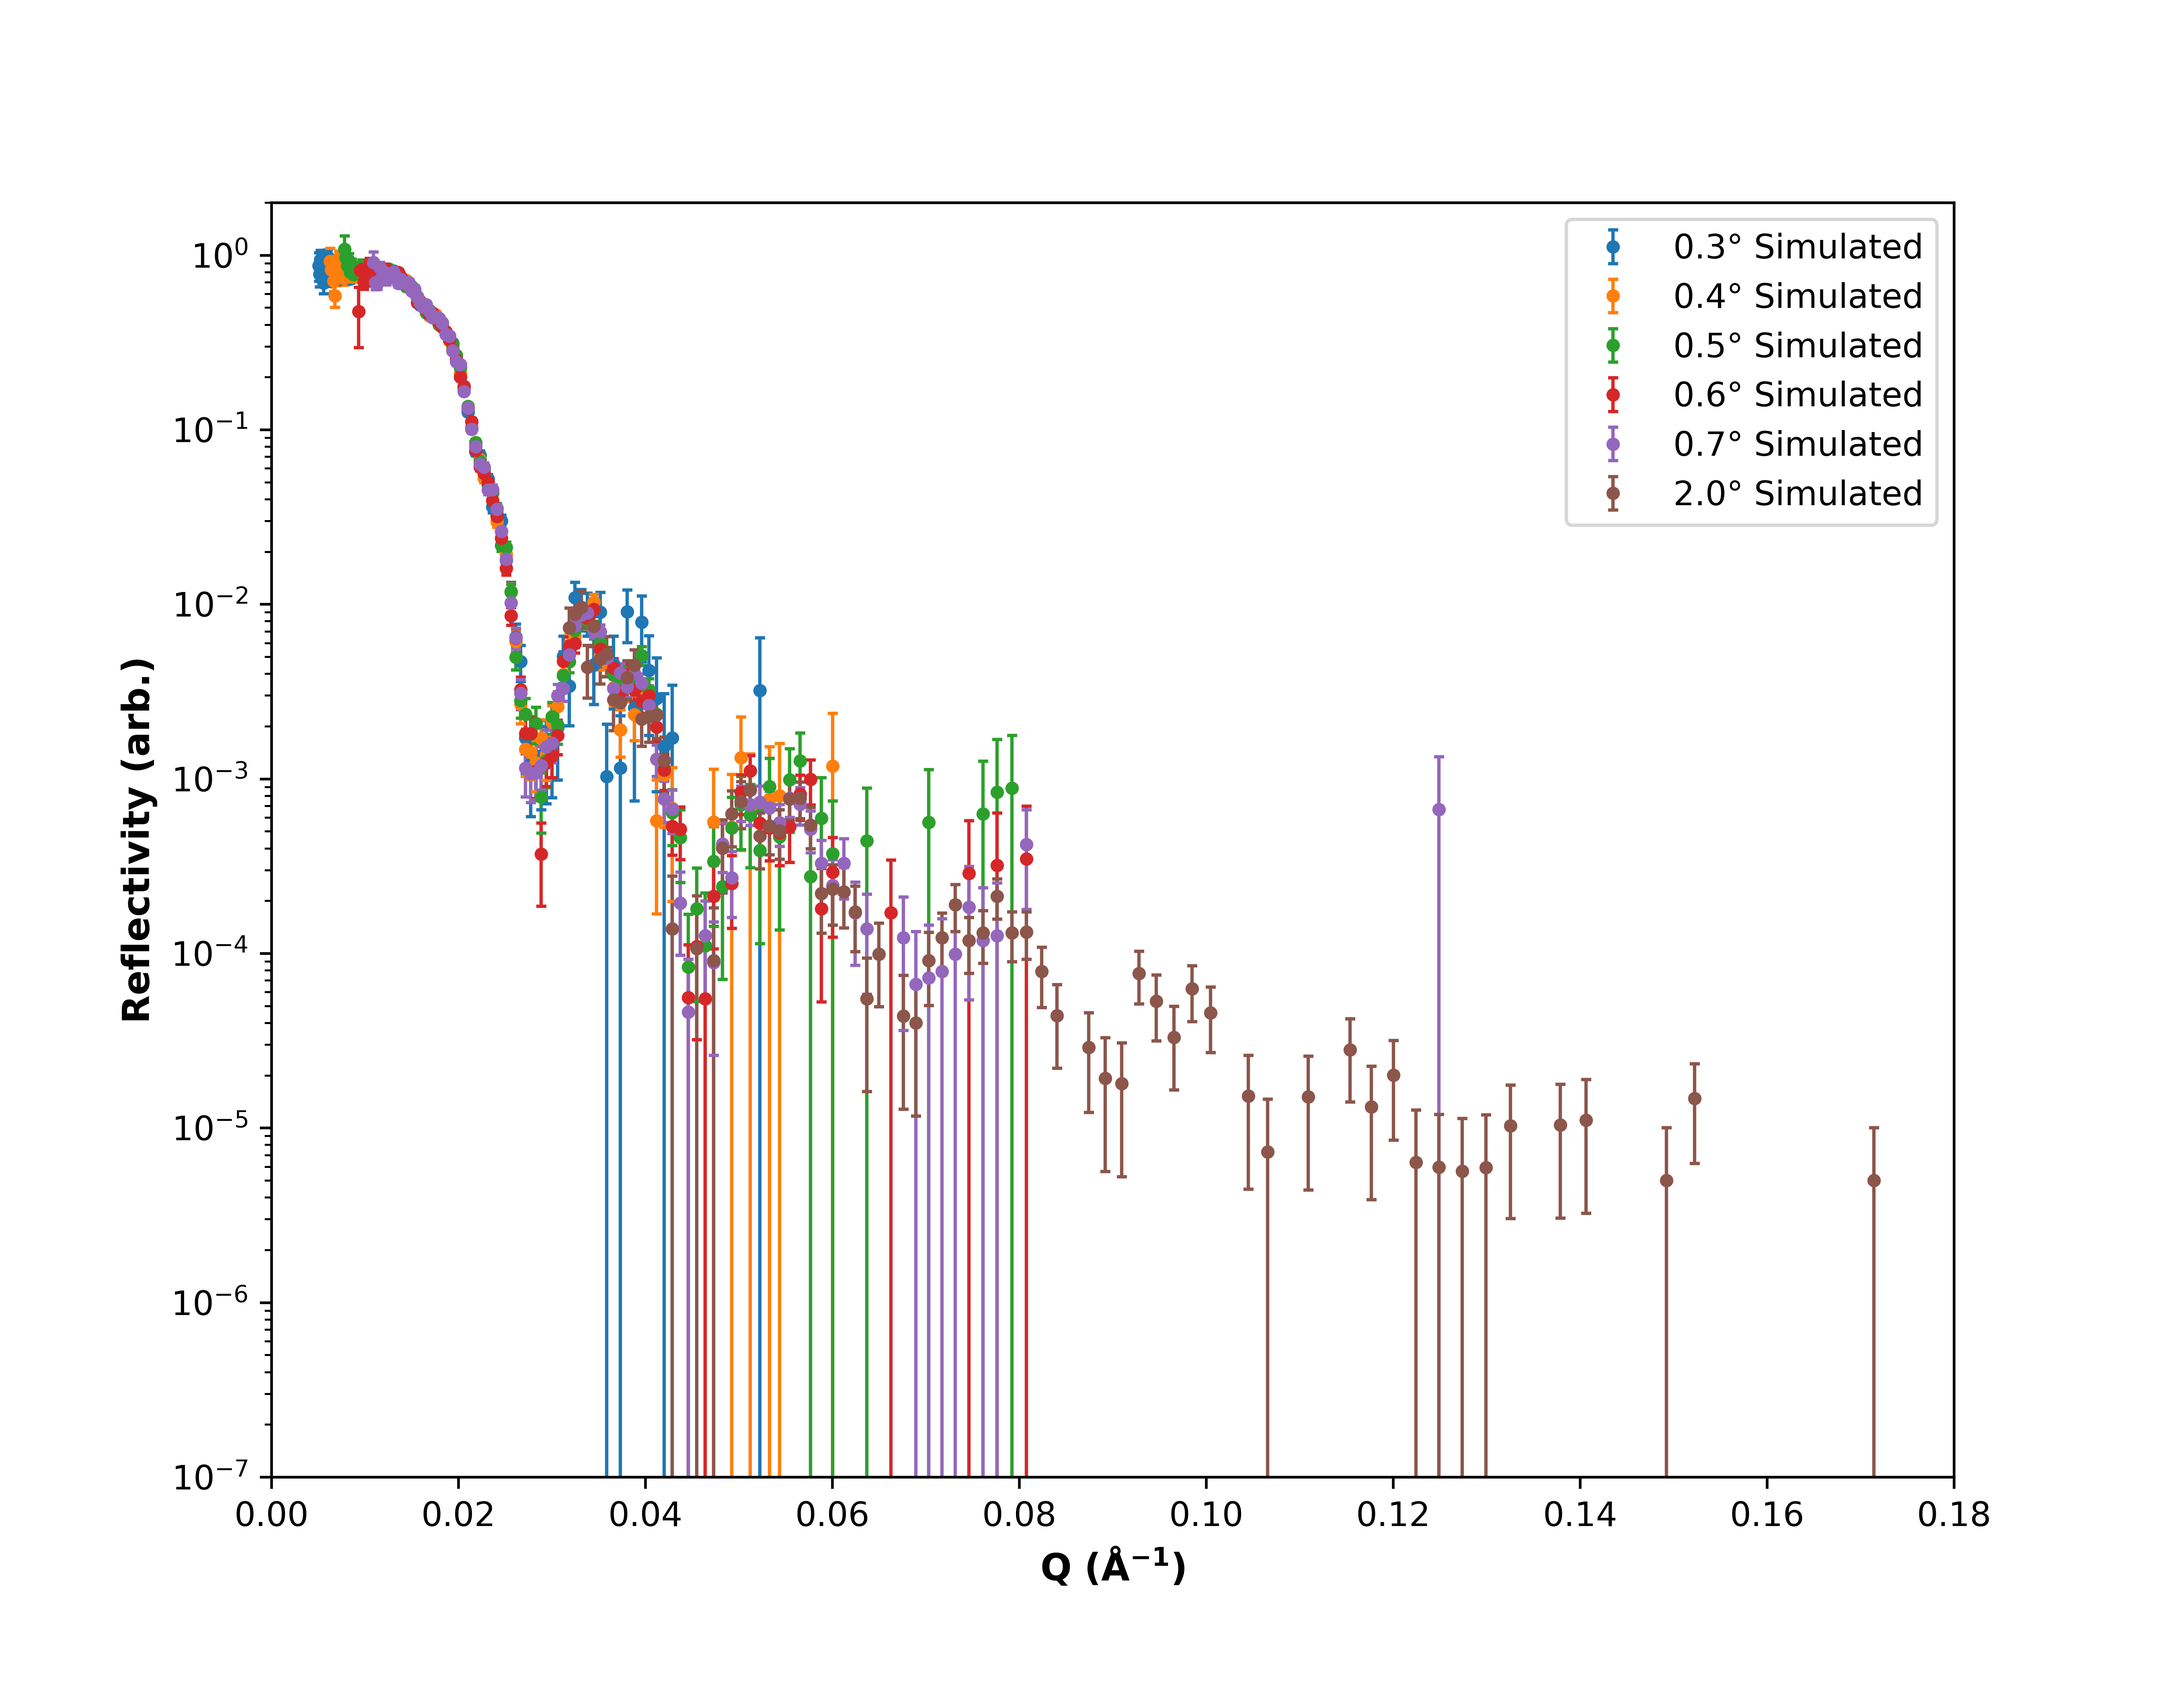
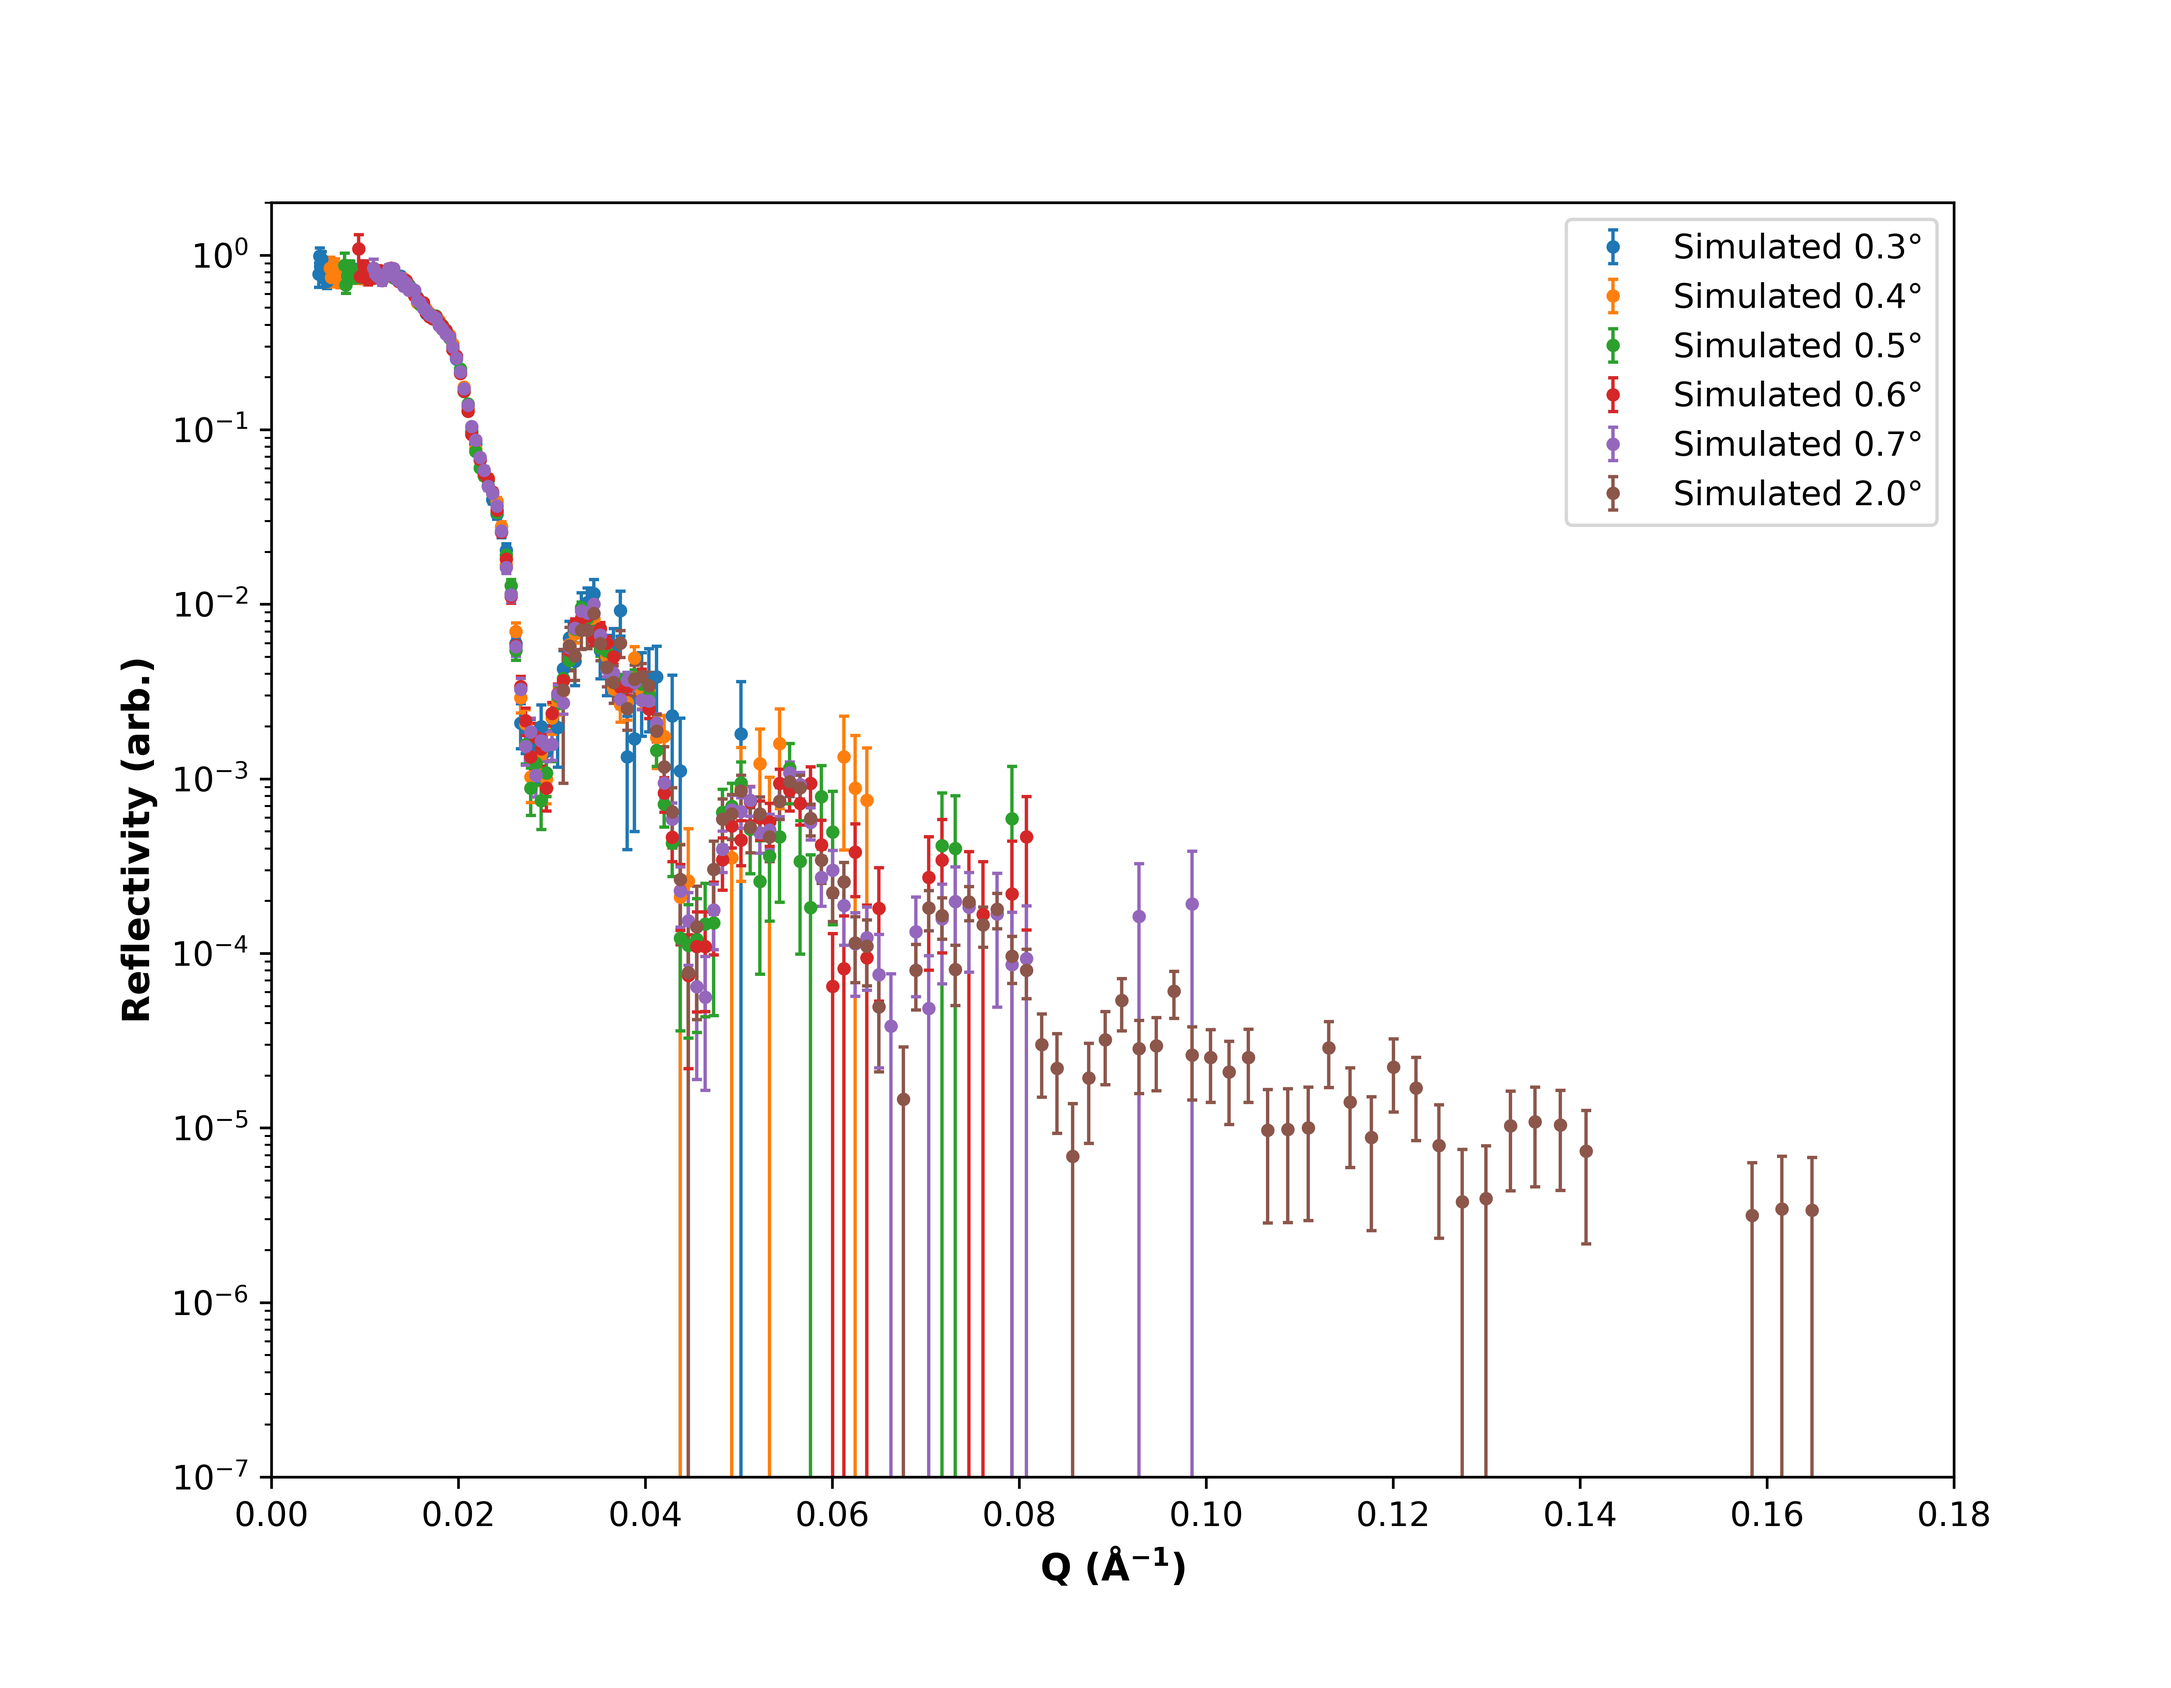
Added similarity test for measured data

diff --git a/simulation/measured_data.py b/simulation/measured_data.py
@@ -3,6 +3,8 @@ import matplotlib.pyplot as plt
 import os, sys
 sys.path.append("../")
 
+from scipy.stats import t
+
 from refnx.dataset  import ReflectDataset
 from refnx.reflect  import SLD, ReflectModel
 from refnx.analysis import Objective
@@ -68,23 +70,18 @@ def plot_measured_all(data_path, dq, bkg, save_path):
         bkg (float): value to use for the model's background parameter.
         save_path (string): path to the directory to save the plot to.
 
-    Returns:
-        scale (float): experimental scale factor for the measured data.
-
     """
     structure = QCS_sample()
 
     #Define the model, load and scale the data.
     model = ReflectModel(structure, scale=1, dq=dq, bkg=bkg)
     data  = ReflectDataset(data_path)
-    scale = np.max(data.y)
-    data.scale(scale) #Scale the data so that the maximum reflectivity is 1.
+    data.scale(np.max(data.y)) #Scale the data so that the maximum reflectivity is 1.
 
     #Plot the fit of the measured dataset and save it.
     objective = Objective(model, data)
     fig = plot_objective(objective)
     fig.savefig(save_path+"/measured_fit.png", dpi=600)
-    return scale
 
 def simulate_measured_data(data_path, files, dq, bkg, scale, angles, time):
     """Loads each measured angle's data and simulates experiments for each angle.
@@ -127,12 +124,12 @@ def simulate_measured_data(data_path, files, dq, bkg, scale, angles, time):
 
 def plot_angle_data(angle_data, data_type, save_path):
     """Creates a plot overlaying each data set of each measured/simulated angle.
-    
+
     Args:
         angle_data (dict): dictionary of reflectivity data for each angle.
         data_type (string): either 'measured' or 'simulated'.
         save_path (string): path to directory to save the plot to.
-        
+
     """
     fig = plt.figure(figsize=[9,7], dpi=600)
     ax  = fig.add_subplot(111)
@@ -142,7 +139,7 @@ def plot_angle_data(angle_data, data_type, save_path):
         q, r, r_error = angle_data[angle]
         #Plot Q values vs. reflectivity with associated reflectivity error bars.
         ax.errorbar(q, r, r_error, marker="o", ms=3, lw=0, elinewidth=1,
-                    capsize=1.5, label="{0}° {1}".format(str(angle), data_type))
+                    capsize=1.5, label="{0} {1}°".format(data_type, str(angle)))
 
     ax.set_xlabel("$\mathregular{Q\ (Å^{-1})}$", fontsize=11, weight='bold')
     ax.set_ylabel('Reflectivity (arb.)',         fontsize=11, weight='bold')
@@ -153,43 +150,40 @@ def plot_angle_data(angle_data, data_type, save_path):
     fig.savefig(save_path+"/{}_reflectivity.png".format(data_type.lower()), dpi=600)
 
 def similarity(measured, simulated):
-    """Calculates a similarity metric between given `measured` and `simulated`
-       reflectivity data.
+    """Determines whether there is significant difference between given
+       `measured` and `simulated` reflectivity datasets.
 
     Args:
         measured (dict): dictionary of measured reflectivity data for each angle.
         simulated (dict): dictionary of simulated reflectivity data for each angle.
 
     Returns:
-        similarity (float): the similarity between the given datasets.
+        t_statistic (float): the Hotelling T-squared statistic.
+        pval (float): the associated p-value for the t-statistic.
 
     """
-    #Iterate over each measured/simulated angle.
-    squared_diffs = []
-    for angle in measured:
-        #Get the measured and simulated data for the angle.
-        q_measured,  r_measured,  r_error_measured  = measured[angle]
-        q_simulated, r_simulated, r_error_simulated = simulated[angle]
+    #Get the measured and simulated reflectivity and associated errors for all angles.
+    #The simulated data is simulated at the same Q values as the measured data.
+    r_measured  = np.array([measured[angle][1] for angle in measured]).flatten()
+    r_simulated = np.array([simulated[angle][1] for angle in simulated]).flatten()
+    r_error_measured  = np.array([measured[angle][2] for angle in measured]).flatten()
+    r_error_simulated = np.array([simulated[angle][2] for angle in simulated]).flatten()
 
-        #Apply an Anscombe transform to make the values approximately normal.
-        r_measured   = 2*np.sqrt(np.array(r_measured) + 3/8)
-        r_simulated  = 2*np.sqrt(np.array(r_simulated) + 3/8)
+    #Calculate the measured and reflected counts, taking the count as 0 if the reflectivity error is 0.
+    counts_measured  = np.divide(r_measured,  r_error_measured,  out=np.zeros_like(r_measured),  where=r_error_measured!=0)
+    counts_simulated = np.divide(r_simulated, r_error_simulated, out=np.zeros_like(r_simulated), where=r_error_simulated!=0)
 
-        r_error_measured  = 2*np.sqrt(np.array(r_error_measured) + 3/8)
-        r_error_simulated = 2*np.sqrt(np.array(r_error_simulated) + 3/8)
+    #Apply an Anscombe transformation to make the values approximately normal.
+    #Then weight each value by 1 / standard deviation
+    counts_measured  = 2*np.sqrt(counts_measured  + 3/8) / np.std(counts_measured)
+    counts_simulated = 2*np.sqrt(counts_simulated + 3/8) / np.std(counts_simulated)
 
-        #Weight the simulated and measured reflectivity by their errors.
-        #If the reflectivity error is 0, calculate the weight as 0.
-        weight1 = np.divide(r_measured,  r_error_measured,  out=np.zeros_like(r_measured),  where=r_error_measured!=0)
-        weight2 = np.divide(r_simulated, r_error_simulated, out=np.zeros_like(r_simulated), where=r_error_simulated!=0)
-        
-        #Record the squared difference between the weighted reflectivity values for the angle.
-        squared_diffs.append(np.square(weight1-weight2))
-
-    #Calculate the mean over the weighted squared differences for all points (over all angles).
+    #Calculate the mean over the squared differences in reflectivity values for all points.
     #Then take the square root of this value to get a Hotelling T-statistic.
-    t_statistic = np.sqrt(np.mean(squared_diffs))
-    return t_statistic
+    t_statistic = np.sqrt(np.mean(np.square(counts_measured-counts_simulated)))
+    #Get the associated p-value using the SciPy survival function.
+    pval = t.sf(np.abs(t_statistic), len(r_measured)-1)*2
+    return t_statistic, pval
 
 if __name__ == "__main__":
     save_path = "./results"
@@ -199,10 +193,10 @@ if __name__ == "__main__":
     data_path = "./data"
     dq  = 2.5
     bkg = 8e-7
+    scale = 0.783
 
-    #sample_measured_data(data_path+"/QCS_all.dat", dq, bkg, save_path)
-    scale = plot_measured_all(data_path+"/QCS_all.dat", dq, bkg, save_path)
-
+    sample_measured_data(data_path+"/QCS_all.dat", dq, bkg, save_path)
+    plot_measured_all(data_path+"/QCS_all.dat", dq, bkg, save_path)
     angles = [0.3, 0.4, 0.5, 0.6, 0.7, 2.0]
     measured_data = ["QCS_03_1uA.dat", "QCS_04_1uA.dat", "QCS_05_1uA.dat",
                      "QCS_06_1uA.dat", "QCS_07_1uA.dat", "QCS_20_1uA.dat"]
@@ -211,5 +205,6 @@ if __name__ == "__main__":
     plot_angle_data(measured, "Measured", save_path)
     plot_angle_data(simulated, "Simulated", save_path)
 
-    similarity = similarity(measured, simulated)
-    print(similarity)
+    t_statistic, pval = similarity(measured, simulated)
+    print("Hotelling t-squared statistic:", t_statistic)
+    print("p-value:", pval)
